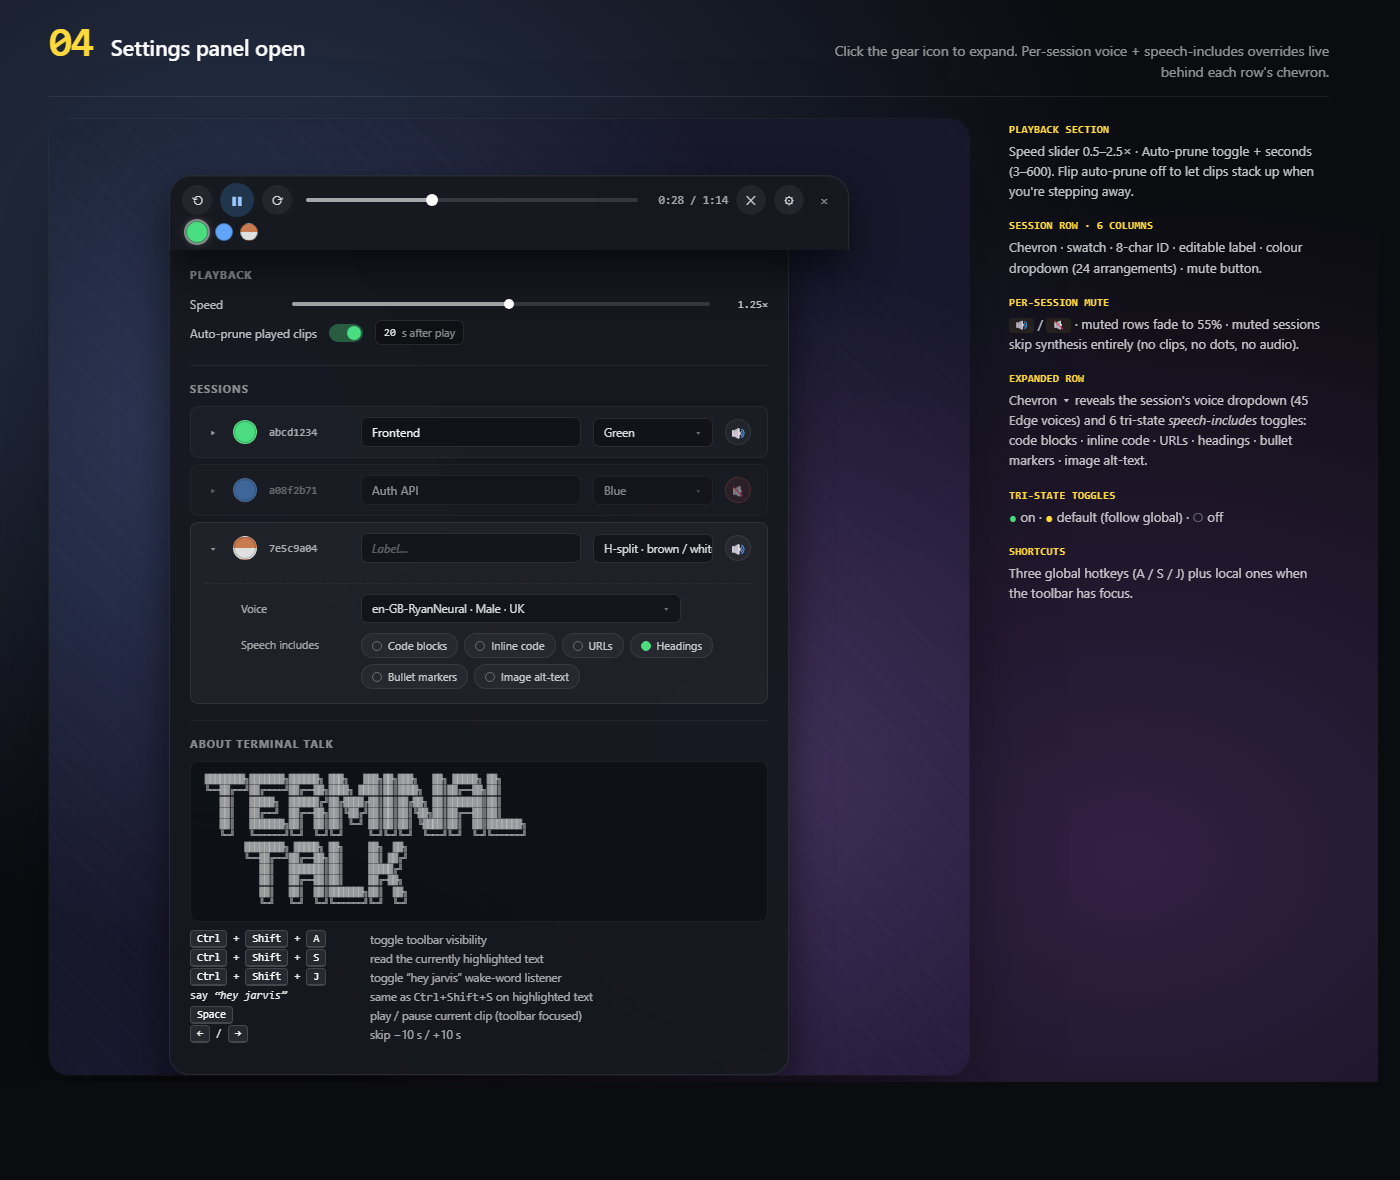
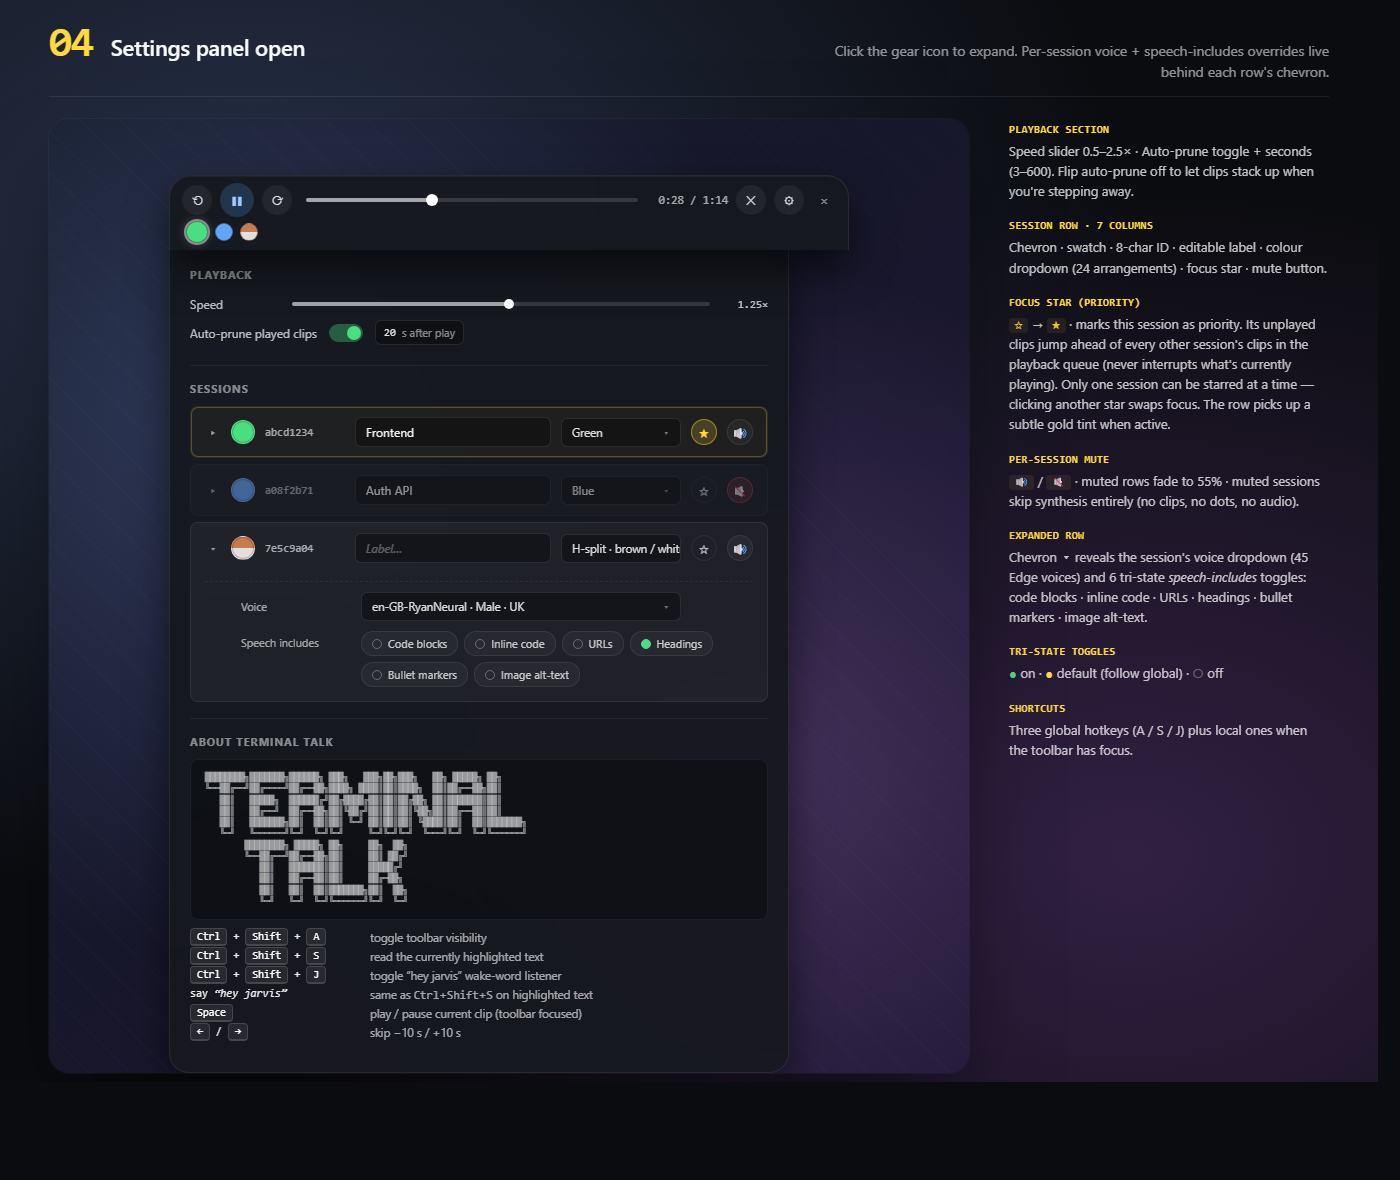
feat(sessions): wire up focus-star button in the sessions table
The playback logic, IPC handler (set-session-focus), CSS (.focus-btn,
.session-focused) and main.js exclusivity enforcement all already
existed — but renderSessionRow() never actually created the button,
so there was no way for users to toggle focus. Add the button
between the colour dropdown and the mute toggle:

- ☆ (outline) when not focused, ★ (gold filled) when focused.
- Click sets exclusive focus via window.api.setSessionFocus(); the
  local sessionAssignments cache is updated in place to clear focus
  on every other row so the re-render matches what main.js just
  persisted to disk.
- Focused row picks up a subtle gold tint (already styled).

Focus precedence on "what plays next":
  1. priority (hey-jarvis highlight-to-speak) — always wins
  2. unplayed clips from the focused session — jump the queue
  3. oldest unplayed clip from any unmuted session

- mocks-annotated.html shot 04: 7-column session grid with focus
  star on every row (first row starred + gold-tinted, others dim).
  Annotation rewritten to explain the priority mechanic.
- README: new "Focus mode (priority)" row in the features table
  and a Playback-order paragraph under shot 04 spelling out how the
  star makes T2's clips play before T3's 15 queued rambles.
- 76/76 unit tests still pass.

diff --git a/docs/design-system/mocks-annotated.html b/docs/design-system/mocks-annotated.html
@@ -327,8 +327,8 @@
 
   .session-row {
     display: grid;
-    grid-template-columns: 16px 24px 80px 1fr 120px 28px;
-    gap: 12px; align-items: center;
+    grid-template-columns: 16px 24px 80px 1fr 120px 26px 26px;
+    gap: 10px; align-items: center;
     padding: 10px 14px;
     background: rgba(255,255,255,0.025);
     border: 1px solid rgba(255,255,255,0.06);
@@ -340,6 +340,26 @@
     border-color: rgba(255,255,255,0.08);
   }
   .session-row.muted { opacity: 0.55; }
+  .session-row.focused {
+    box-shadow: inset 0 0 0 1px rgba(255,215,61,0.28);
+    background: rgba(255,215,61,0.04);
+  }
+
+  /* Per-session focus star — ☆ outlined when off, ★ filled gold when on.
+     Main.js enforces exclusivity: only one row can be focused at a time. */
+  .focus-btn {
+    width: 26px; height: 26px; border-radius: 50%;
+    border: 1px solid rgba(255,255,255,0.08);
+    background: transparent;
+    color: rgba(255,255,255,0.7);
+    display: inline-flex; align-items: center; justify-content: center;
+    font-size: 13px;
+  }
+  .focus-btn.focused {
+    background: rgba(255,215,61,0.18);
+    border-color: rgba(255,215,61,0.5);
+    color: #ffd93d;
+  }
   /* Per-session mute button — 🔊 unmuted, 🔇 muted. One-click toggle
      in the shipping UI; clicking triggers save + re-render. */
   .mute-btn {
@@ -747,12 +767,13 @@
             <div class="panel-section">
               <div class="panel-header">Sessions</div>
 
-              <div class="session-row">
+              <div class="session-row focused">
                 <span class="chev">▸</span>
                 <div class="swatch" style="background: #4ade80;"></div>
                 <span class="short-id">abcd1234</span>
                 <div class="fake-input">Frontend</div>
                 <div class="fake-select"><span>Green</span><span class="caret">▾</span></div>
+                <button class="focus-btn focused" title="Unfocus this session">★</button>
                 <button class="mute-btn" title="Mute this session">🔊</button>
               </div>
 
@@ -762,6 +783,7 @@
                 <span class="short-id">a08f2b71</span>
                 <div class="fake-input">Auth API</div>
                 <div class="fake-select"><span>Blue</span><span class="caret">▾</span></div>
+                <button class="focus-btn" title="Focus this session">☆</button>
                 <button class="mute-btn muted" title="Unmute">🔇</button>
               </div>
 
@@ -771,6 +793,7 @@
                 <span class="short-id">7e5c9a04</span>
                 <div class="fake-input placeholder">Label…</div>
                 <div class="fake-select"><span>H-split · brown / white</span><span class="caret">▾</span></div>
+                <button class="focus-btn" title="Focus this session">☆</button>
                 <button class="mute-btn" title="Mute this session">🔊</button>
 
                 <div class="session-expanded-body">
@@ -838,8 +861,12 @@
             <dd>Speed slider 0.5–2.5× · Auto-prune toggle + seconds (3–600). Flip auto-prune off to let clips stack up when you're stepping away.</dd>
           </div>
           <div>
-            <dt>Session row · 6 columns</dt>
-            <dd>Chevron · swatch · 8-char ID · editable label · colour dropdown (24 arrangements) · mute button.</dd>
+            <dt>Session row · 7 columns</dt>
+            <dd>Chevron · swatch · 8-char ID · editable label · colour dropdown (24 arrangements) · focus star · mute button.</dd>
+          </div>
+          <div>
+            <dt>Focus star (priority)</dt>
+            <dd><code>☆</code> → <code>★</code> · marks this session as priority. Its unplayed clips jump ahead of every other session's clips in the playback queue (never interrupts what's currently playing). Only one session can be starred at a time — clicking another star swaps focus. The row picks up a subtle gold tint when active.</dd>
           </div>
           <div>
             <dt>Per-session mute</dt>

diff --git a/app/renderer.js b/app/renderer.js
@@ -874,6 +874,36 @@ function renderSessionRow(shortId, entry) {
   });
   row.appendChild(select);
 
+  // Focus toggle. Star button — clicking marks this session as priority;
+  // its unplayed clips jump ahead of other sessions' clips in the playback
+  // queue (but never interrupt a currently-playing clip). Main.js enforces
+  // exclusivity: only one session can be focused at a time, so clicking
+  // here clears focus on every other row.
+  const focusBtn = document.createElement('button');
+  focusBtn.className = 'focus-btn' + (entry.focus ? ' focused' : '');
+  focusBtn.textContent = entry.focus ? '\u2605' : '\u2606';  // ★ / ☆
+  focusBtn.title = entry.focus
+    ? 'Unfocus this session (its clips lose priority)'
+    : 'Focus this session — its clips play before other sessions\' clips';
+  focusBtn.addEventListener('click', async (ev) => {
+    ev.stopPropagation();
+    const next = !entry.focus;
+    const ok = await window.api.setSessionFocus(shortId, next);
+    if (ok) {
+      // Exclusive focus: clear every other session's focus flag in the
+      // local cache so the re-render immediately reflects the new state.
+      if (next) {
+        for (const key of Object.keys(sessionAssignments)) {
+          if (key !== shortId) sessionAssignments[key].focus = false;
+        }
+      }
+      sessionAssignments[shortId].focus = next;
+      renderSessionsTable();
+      renderDots();
+    }
+  });
+  row.appendChild(focusBtn);
+
   // Mute toggle. Always visible in the top row so users can one-click mute
   // background terminals. Uses 🔇 / 🔊 to make the state obvious at a glance;
   // the row also gets a muted class for a subtle fade.

diff --git a/README.md b/README.md
@@ -32,6 +32,7 @@ Windows-only for now; Mac/Linux planned.
 | **Floating audio toolbar** | Always-on-top two-row letterbox: controls on top (play/pause, scrubber, time, clear, settings), dots on the bottom strip (~30 visible). Drag to any screen edge and it snaps flush. Left/right edges switch to a vertical column layout. After 15 s of no interaction it shrinks to a thin strip and becomes click-through; hover to re-expand. |
 | **Per-terminal identity (3 axes)** | Each Claude Code terminal gets a unique **dot colour** on the toolbar, **emoji in its statusline**, and optionally its **own voice**. Open 5+ terminals and you can tell them apart at a glance — or by ear if you set distinct voices. Sessions persist until you explicitly remove them (× button on each row of the Sessions table). |
 | **Per-session mute** | `🔊/🔇` button on each Sessions table row. Muted sessions skip edge-tts entirely (no synthesis, no clips, no audio) and show a `🔇` prefix in the terminal's statusline. Perfect for backgrounding chatty terminals. |
+| **Focus mode (priority)** | Star `☆ → ★` button on each Sessions row. When Terminal 2 is the one that matters and Terminal 3 is rambling 15 clips deep, starring T2 makes its clips jump the queue — they play before any other session's pending clip (no interruption of the clip currently playing). Only one session can be focused at a time; clicking another star swaps focus. Highlight-to-speak clips still win over everything. |
 | **Per-session speech-includes** | Override what gets spoken on a per-terminal basis: code blocks, inline code, URLs, headings, bullet markers, image alt-text. |
 | **Auto-prune** | Played clips disappear after a configurable delay (default 20 s, range 3-600 s, toggle on/off). Walking away? Flip it off and let clips stack up for when you're back. |
 | **Tap to mute the mic** | `Ctrl+Shift+J` toggles the wake-word listener (chime confirms). Mic is truly released when off — orphan-swept + state-file-driven stream teardown. |
@@ -70,7 +71,9 @@ Playing · queued · heard (auto-prunes after 3–600 s) · and a **J**-labelled
   <img src="docs/screenshots/toolbar-settings-panel.png" alt="Full settings panel: Playback (speed + auto-prune), Sessions table with mute buttons + one expanded row showing voice + speech-includes, About section with ASCII banner + shortcuts" width="900">
 </p>
 
-The gear expands the panel downward. **Playback** holds the speed slider and auto-prune toggle. **Sessions** lists every active terminal with a one-click 🔊/🔇 mute; the chevron on each row reveals per-session voice + six tri-state speech-includes toggles (code blocks, inline code, URLs, headings, bullet markers, image alt-text). **About** has the ASCII banner and full shortcuts table.
+The gear expands the panel downward. **Playback** holds the speed slider and auto-prune toggle. **Sessions** lists every active terminal with a one-click ★ focus-star (priority playback) and 🔊/🔇 mute; the chevron on each row reveals per-session voice + six tri-state speech-includes toggles (code blocks, inline code, URLs, headings, bullet markers, image alt-text). **About** has the ASCII banner and full shortcuts table.
+
+**Playback order** — when the player picks the next clip it follows this precedence: (1) "hey jarvis" / `Ctrl+Shift+S` highlight-to-speak always wins · (2) unplayed clips from the focused ★ session · (3) oldest unplayed clip from any unmuted session. Starring a session is how you make sure an important terminal's response is heard ahead of a chatty one with 15 queued clips.
 
 ## Who it's for
 
